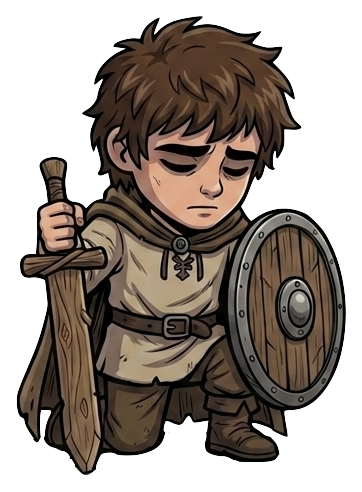
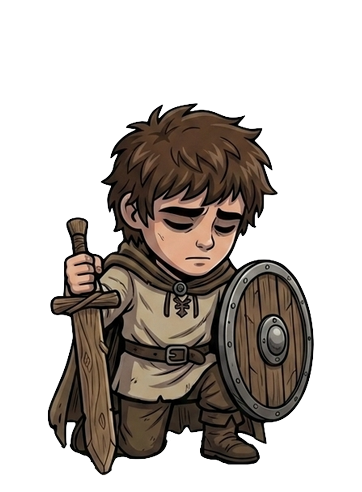
Add real swing motion to combat and fix knight sprite scaling
Replace the static attack/telegraph poses with backswing-to-contact
keyframe animations for both player and enemy strikes, timed so the
enemy's swing-through lines up with the parry window. Also fix the
defend and defeated knight sprites reading as oversized relative to
the enemy and other poses, and compensate the hit-recoil animation
for the injured sprite's wide aspect ratio getting over-shrunk by the
arena's object-fit sizing.

diff --git a/index.html b/index.html
@@ -41,8 +41,14 @@ h1,h2,h3{margin:0 0 8px}.muted{opacity:.7}
 .arena .ground{position:absolute;left:5%;right:5%;bottom:15%;height:3px;background:rgba(42,37,34,.35)}
 .fighter{position:absolute;bottom:14%;height:69%;width:auto;max-width:50%;object-fit:contain;object-position:bottom;filter:drop-shadow(0 6px 0 rgba(42,37,34,.25));pointer-events:none;transition:transform .16s,left .16s,right .16s}
 .fighter.player{left:5%}.fighter.enemy{right:5%;transform:scaleX(-1)}
-.fighter.enemy.attackpose{transform:scaleX(-1) translateX(-18px) rotate(-3deg)}
-.fighter.player.attackpose{transform:translateX(24px) rotate(-3deg)}
+@keyframes swingWindupEnemy{0%{transform:scaleX(-1) translateX(0) rotate(0deg)}100%{transform:scaleX(-1) translateX(9px) rotate(13deg)}}
+.fighter.enemy.windup{animation:swingWindupEnemy .2s cubic-bezier(.34,1.1,.64,1) forwards}
+@keyframes swingStrikeEnemy{0%{transform:scaleX(-1) translateX(9px) rotate(13deg)}55%{transform:scaleX(-1) translateX(-15px) rotate(-16deg)}80%,100%{transform:scaleX(-1) translateX(-32px) rotate(-27deg) scale(1.06)}}
+.fighter.enemy.strike{animation-name:swingStrikeEnemy;animation-timing-function:cubic-bezier(.3,.1,.2,1);animation-fill-mode:forwards}
+@keyframes swingSlashPlayer{0%{transform:translateX(0) rotate(0deg)}18%{transform:translateX(-10px) rotate(15deg)}55%{transform:translateX(13px) rotate(-15deg)}82%,100%{transform:translateX(30px) rotate(-28deg) scale(1.06)}}
+.fighter.player.swing-slash{animation:swingSlashPlayer .26s cubic-bezier(.3,.1,.2,1) forwards}
+@keyframes swingThrustPlayer{0%{transform:translateX(0) rotate(0deg)}22%{transform:translateX(-12px) rotate(5deg)}58%{transform:translateX(10px) rotate(-1deg)}84%,100%{transform:translateX(38px) rotate(-3deg) scale(1.05)}}
+.fighter.player.swing-thrust{animation:swingThrustPlayer .44s cubic-bezier(.3,.1,.2,1) forwards}
 .fighter.player.defendpose{transform:translateX(-5px) scale(.97)}
 .fighter.enemy.defendpose{transform:scaleX(-1) translateX(5px) scale(.97)}
 #combat.active{display:flex;flex-direction:column;overflow:hidden}
@@ -66,7 +72,7 @@ h1,h2,h3{margin:0 0 8px}.muted{opacity:.7}
 .fighter.player.lunge{transform:translateX(46px) rotate(-5deg)}
 .fighter.enemy.lunge{transform:scaleX(-1) translateX(-46px) rotate(-5deg)}
 .fighter.player.hitrecoil{animation:hitRecoilPlayer .32s ease-out}
-@keyframes hitRecoilPlayer{0%{transform:translateX(0) rotate(0)}30%{transform:translateX(-18px) rotate(5deg)}100%{transform:translateX(0) rotate(0)}}
+@keyframes hitRecoilPlayer{0%{transform:translateX(0) rotate(0) scale(1.35)}30%{transform:translateX(-18px) rotate(5deg) scale(1.35)}100%{transform:translateX(0) rotate(0) scale(1.35)}}
 .fighter.enemy.hitrecoil{animation:hitRecoilEnemy .32s ease-out}
 @keyframes hitRecoilEnemy{0%{transform:scaleX(-1) translateX(0) rotate(0)}30%{transform:scaleX(-1) translateX(18px) rotate(-5deg) scale(1.05)}100%{transform:scaleX(-1) translateX(0) rotate(0)}}
 .arena.shake-heavy{animation:shakeHeavy .55s}
@@ -232,7 +238,7 @@ function reset(){
  document.querySelector('#telegraph').textContent='The '+currentEnemy.name+' watches you...';document.querySelector('#log').textContent='Hold to block. Swipe up to parry and open a window to strike!';
  const p=document.querySelector('#player'),e=document.querySelector('#enemy');
  p.src='assets/knight/idle-front.png';p.className='fighter player';
- e.src=currentEnemy.idle;e.className='fighter enemy';e.style.filter=currentEnemy.hue?'hue-rotate('+currentEnemy.hue+'deg)':'';
+ e.src=currentEnemy.idle;e.className='fighter enemy';e.style.animationDuration='';e.style.filter=currentEnemy.hue?'hue-rotate('+currentEnemy.hue+'deg)':'';
  countdownThenStart();
 }
 function countdownThenStart(){
@@ -254,8 +260,13 @@ function enemyAttack(){
  if(locked)return;
  phase='telegraph';
  const t=document.querySelector('#telegraph'),e=document.querySelector('#enemy');
- t.textContent='⚠ Watch out!';t.classList.add('warn');e.src=currentEnemy.attacks[Math.floor(Math.random()*currentEnemy.attacks.length)];e.classList.add('attackpose');
+ t.textContent='⚠ Watch out!';t.classList.add('warn');e.src=currentEnemy.attacks[Math.floor(Math.random()*currentEnemy.attacks.length)];e.className='fighter enemy windup';
  telegraphStart=Date.now();
+ const strikeLead=Math.min(PARRY_WINDOW_MS,currentEnemy.reactMs*0.6);
+ setTimeout(()=>{
+  if(locked||phase!=='telegraph')return;
+  e.className='fighter enemy strike';e.style.animationDuration=strikeLead+'ms';
+ },currentEnemy.reactMs-strikeLead);
  setTimeout(()=>{
   if(locked||phase!=='telegraph')return;
   t.classList.remove('warn');
@@ -322,7 +333,7 @@ function resolveAttack(kind){
  const p=document.querySelector('#player'),e=document.querySelector('#enemy');
  const opportunity=phase==='recover';
  setSprite(p,opportunity?'assets/knight/riposte.png':'assets/knight/'+kind+'.png','assets/knight/attack.png');
- p.className='fighter player attackpose';
+ p.className='fighter player swing-'+kind;
  const swingMs=kind==='thrust'?440:260;
  const blockChance=opportunity?0.04:OUTSIDE_BLOCK_CHANCE[kind];
  const blocked=Math.random()<blockChance;
@@ -375,7 +386,7 @@ function finish(win){
  document.querySelector('#thrust').disabled=true;
  document.querySelector('#defend').disabled=true;
  const p=document.querySelector('#player'),e=document.querySelector('#enemy');
- p.classList.remove('attackpose','defendpose','lunge','hitrecoil');e.classList.remove('attackpose','defendpose','stunned','hitrecoil','lunge');
+ p.classList.remove('swing-slash','swing-thrust','defendpose','lunge','hitrecoil');e.classList.remove('windup','strike','defendpose','stunned','hitrecoil','lunge');e.style.animationDuration='';
  p.src='assets/knight/'+(win?'victory':'defeated')+'.png';
  e.src='assets/'+currentEnemy.folder+'/'+(win?'defeated':'victory')+'.png';
  (win?p:e).classList.add('pop');
